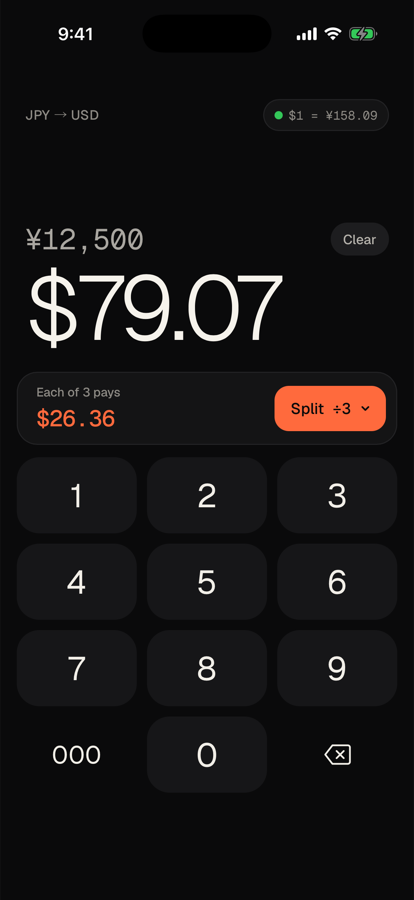
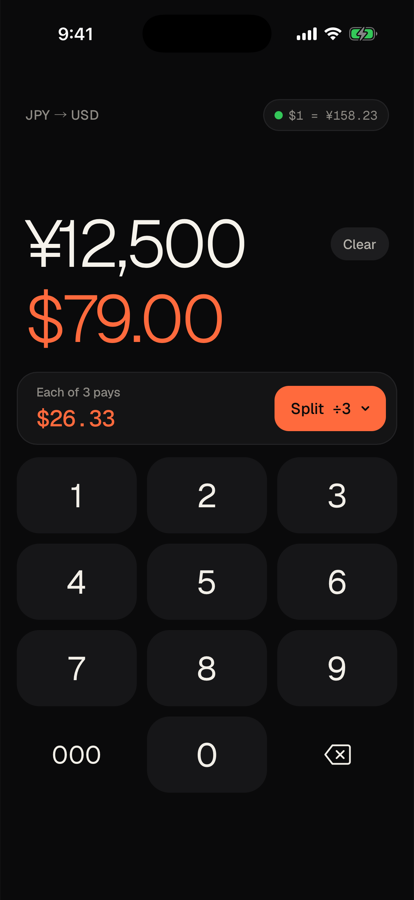
Update README screenshot for the new amount styling

diff --git a/README.md b/README.md
@@ -2,7 +2,7 @@
 
 A small web app for converting yen to dollars and splitting the bill. It works offline once installed. Built from the Claude Design mock `Yen to USD.dc.html`.
 
-<img src="docs/screenshot.png" alt="Yen to USD showing ¥12,500 as $79.07, split three ways at $26.36 each" width="300">
+<img src="docs/screenshot.png" alt="Yen to USD showing ¥12,500 as $79.00, split three ways at $26.33 each" width="300">
 
 **https://rosshettel.github.io/yen-to-usd/**
 
